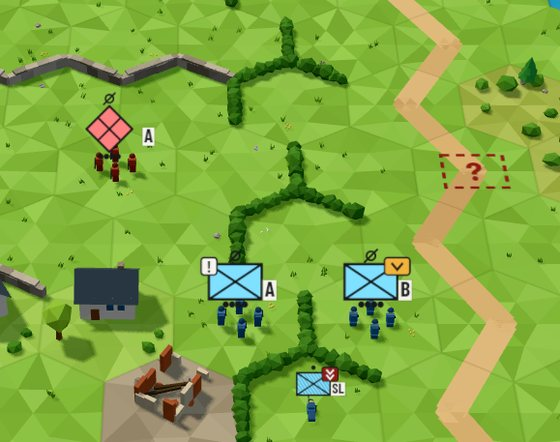
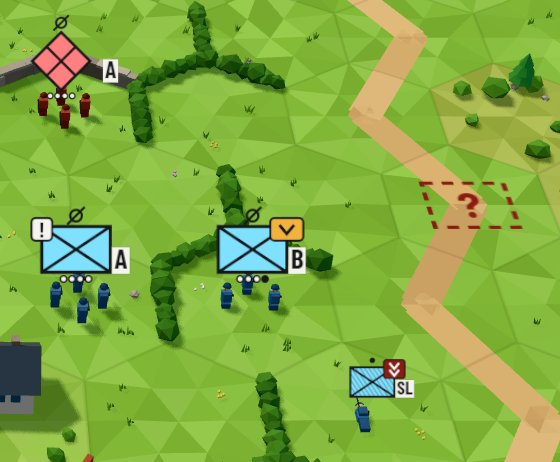
Fix & Flank: a counter's dots are white for its men, black for its losses
The help's «Фишки» says so, with its picture taken again (BRAVO one man down).

diff --git a/games/fix-and-flank/src/ui/help.js b/games/fix-and-flank/src/ui/help.js
@@ -113,9 +113,10 @@ export const HELP = [
     icon: 'counter',
     html: `
       <h3>Что на фишках</h3>
-      ${fig('counters.jpg', 'Вверху обнаруженная группа OPFOR и предполагаемая позиция «?». Внизу ваше отделение: ALPHA на виду, BRAVO подавлена, SL прижат.')}
+      ${fig('counters.jpg', 'Вверху обнаруженная группа OPFOR и предполагаемая позиция «?». Внизу ваше отделение: ALPHA на виду, BRAVO подавлена и потеряла бойца, SL прижат.')}
       <ul>
         <li><b>Синий прямоугольник</b>: ваше подразделение. <b>Красный ромб</b>: противник. Буква: группа, <b>SL</b>: командир отделения.</li>
+        <li>Кружки под фишкой: бойцы группы. <b>Белые</b> в строю, <b>чёрные</b> выбыли.</li>
         <li>Значки: <b>жёлтый шеврон</b> подавлена, <b>тёмно-красный двойной</b> прижата, <b>«!»</b> на виду, <b>«?»</b> предполагаемый противник.</li>
         <li>Бойцы под фишкой показывают то же: пригнулись, значит подавлены, лежат, значит прижаты.</li>
         <li>В карточках отделения: <b>FTL</b> командир группы, <b>AR</b> пулемётчик, <b>GR</b> гранатомётчик, <b>R</b> стрелок. Серым выбывшие.</li>

diff --git a/games/fix-and-flank/src/render/hexmap.js b/games/fix-and-flank/src/render/hexmap.js
@@ -345,7 +345,7 @@ function echelon(ctx, kind, x, y, size) {
 // Counters after the "Fireteam Counters" design. units: [{ unit, pos: {x, y}
 // world center, selected, stackedWithTeam, ghost, hovered }]. A fireteam: NATO frame
 // with the infantry X and the fireteam mark above, its letter to the right,
-// one pip per soldier below (filled: present, hollow: lost). Pinned teams are
+// one pip per soldier below (white: present, black: lost). Pinned teams are
 // hatched. The SL: a smaller counter with the squad dot, at the hex's lower
 // left when it shares the hex with a team.
 export function drawCounters(ctx, cam, units, rosterOf) {
@@ -436,7 +436,7 @@ export function drawCounters(ctx, cam, units, rosterOf) {
       for (let i = 0; i < roster.length; i++) {
         ctx.beginPath();
         ctx.arc(px0 + i * gap, py, r, 0, Math.PI * 2);
-        ctx.fillStyle = i < unit.soldiers.length ? COLORS.ink : COLORS.label;
+        ctx.fillStyle = i < unit.soldiers.length ? COLORS.label : COLORS.ink;
         ctx.fill();
         ctx.strokeStyle = COLORS.ink;
         ctx.stroke();

diff --git a/games/fix-and-flank/docs/decisions.md b/games/fix-and-flank/docs/decisions.md
@@ -202,7 +202,7 @@ Answers to the follow-up questions:
 ## Counter and marker graphics (user request)
 
 - Taken from the user's design canvas "Fireteam Counters" (two boards: counters, and state and fire markers), drawn on the canvas in `src/render/hexmap.js`; no image files.
-- **Counters:** NATO frame with the infantry X and a heavy ink outline (#15181A). BLUFOR: light blue rectangle (#80E0FF). OPFOR is not in the design; it uses the NATO hostile frame, a light red diamond (#FF8080). Echelon mark above: fireteam = circle with a slash, the SL = a squad dot. Team letter (or "SL") to the right on a pale plate; one pip per soldier below, filled = present, hollow = lost. The design's per-soldier hitpoints are not a rule here: one pip per soldier.
+- **Counters:** NATO frame with the infantry X and a heavy ink outline (#15181A). BLUFOR: light blue rectangle (#80E0FF). OPFOR is not in the design; it uses the NATO hostile frame, a light red diamond (#FF8080). Echelon mark above: fireteam = circle with a slash, the SL = a squad dot. Team letter (or "SL") to the right on a pale plate; one pip per soldier below: white = present, black = lost (user request 2026-10-15; they were filled = present, hollow = lost). The design's per-soldier hitpoints are not a rule here: one pip per soldier.
 - **Markers:** suppressed = amber badge (#F2B33D) with one chevron; pinned = dark red badge (#8E1B12) with two white chevrons and the counter hatched; both on the frame's top-right corner. Exposed (not in the design) = a pale badge with "!" on the top-left corner, same shape. The design's 0-100 suppression scale is not used: statuses stay ok / suppressed / pinned.
 - **Fire:** dashed line from the shooter to a crosshair on the target hex, tagged with the shooter's letter; navy (#1F3F8F) for BLUFOR, dark red for OPFOR. Planned assaults use the same marker in orange-red. Fire markers are drawn over the counters.
 - **Fonts:** the design's Barlow Condensed is used if installed, else a condensed system font. Not loaded from Google Fonts: no network calls at runtime.
